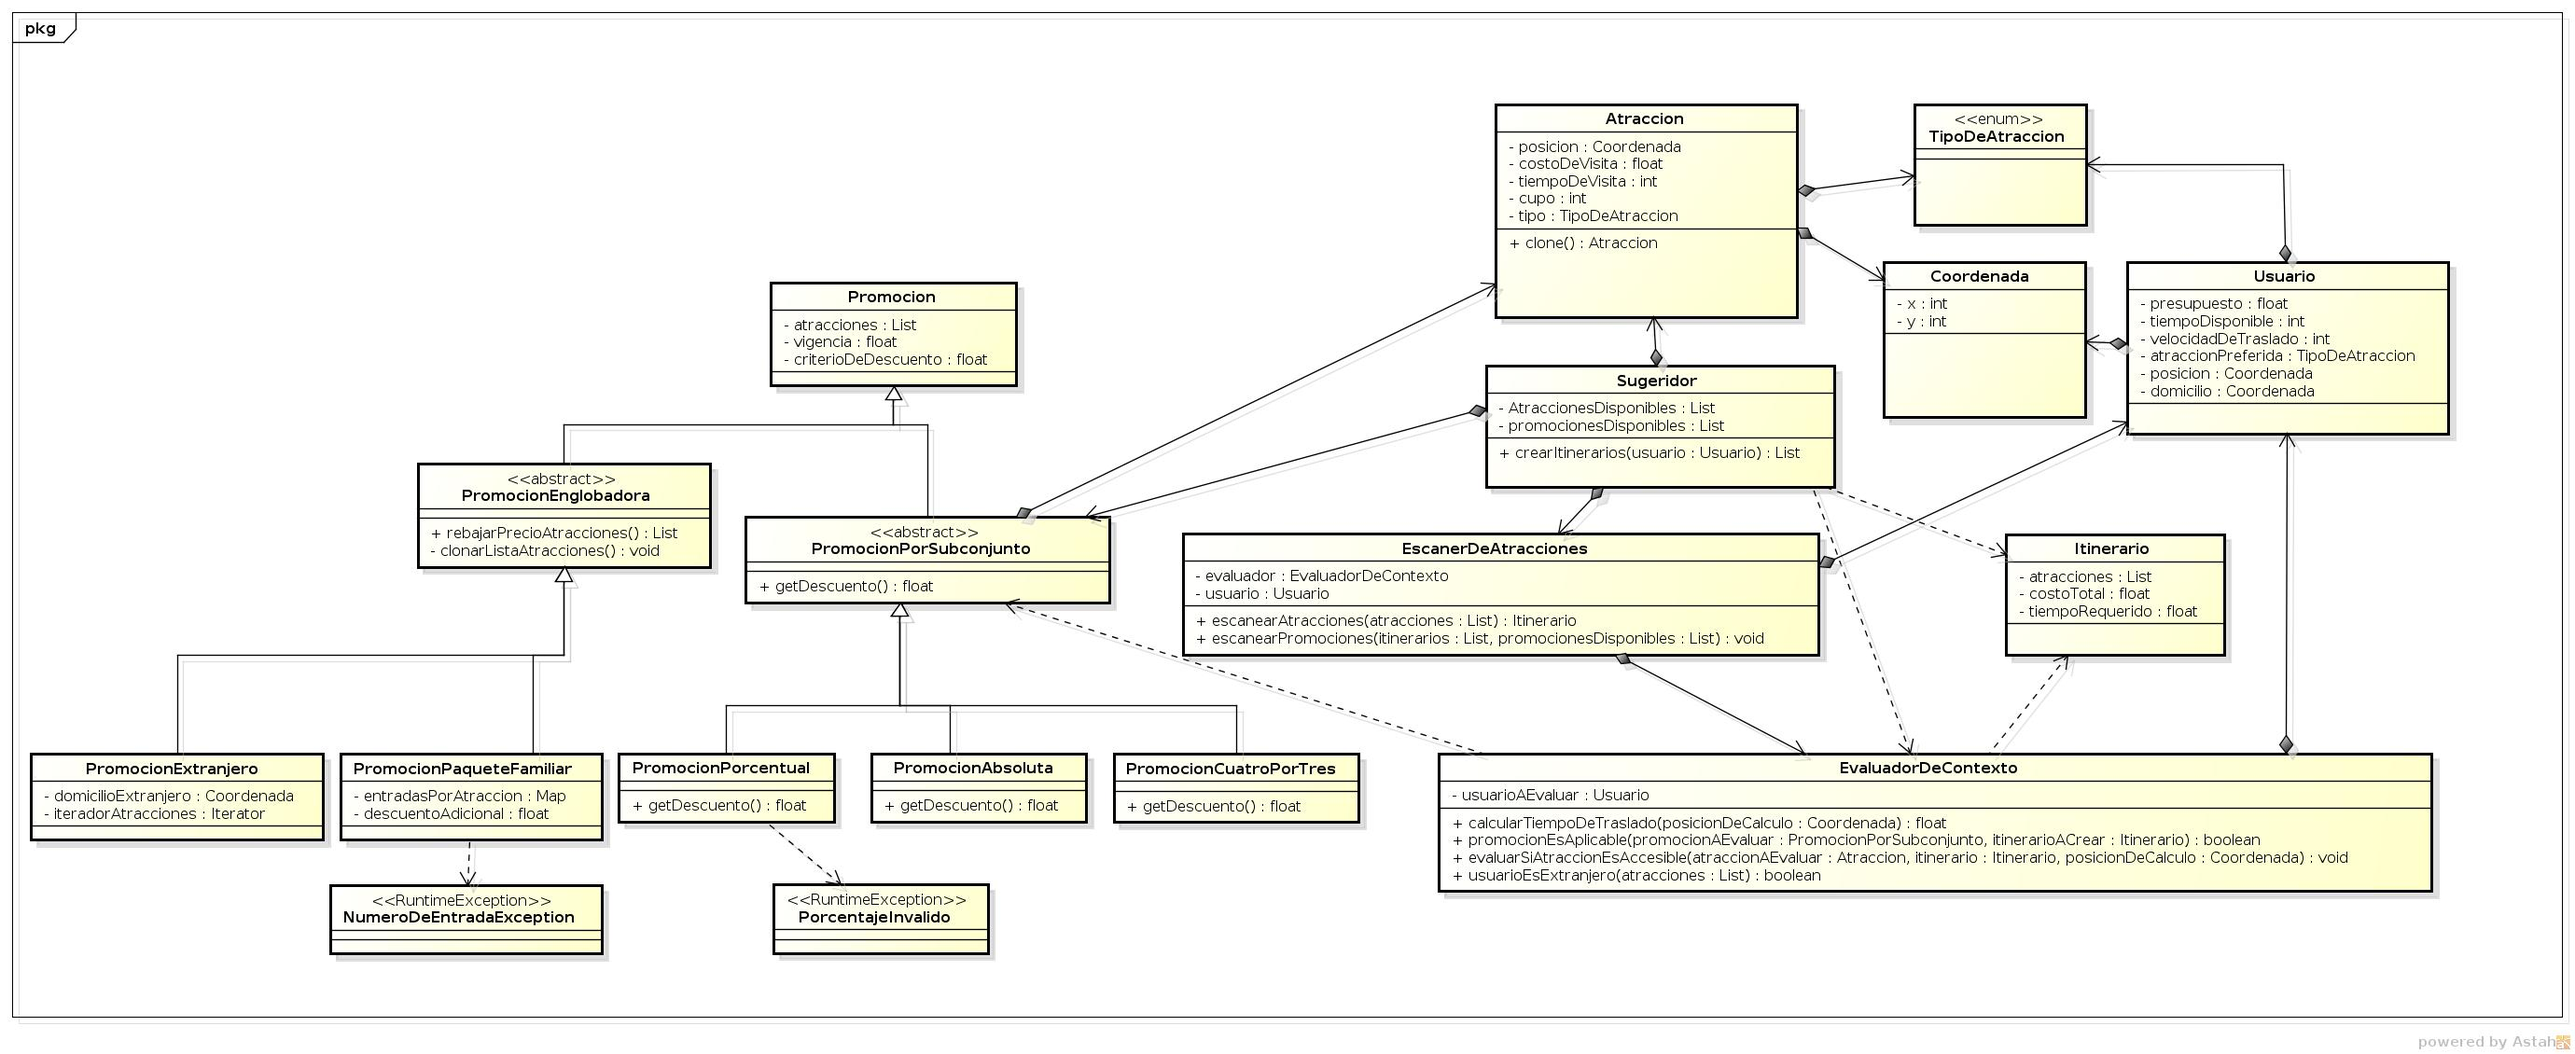
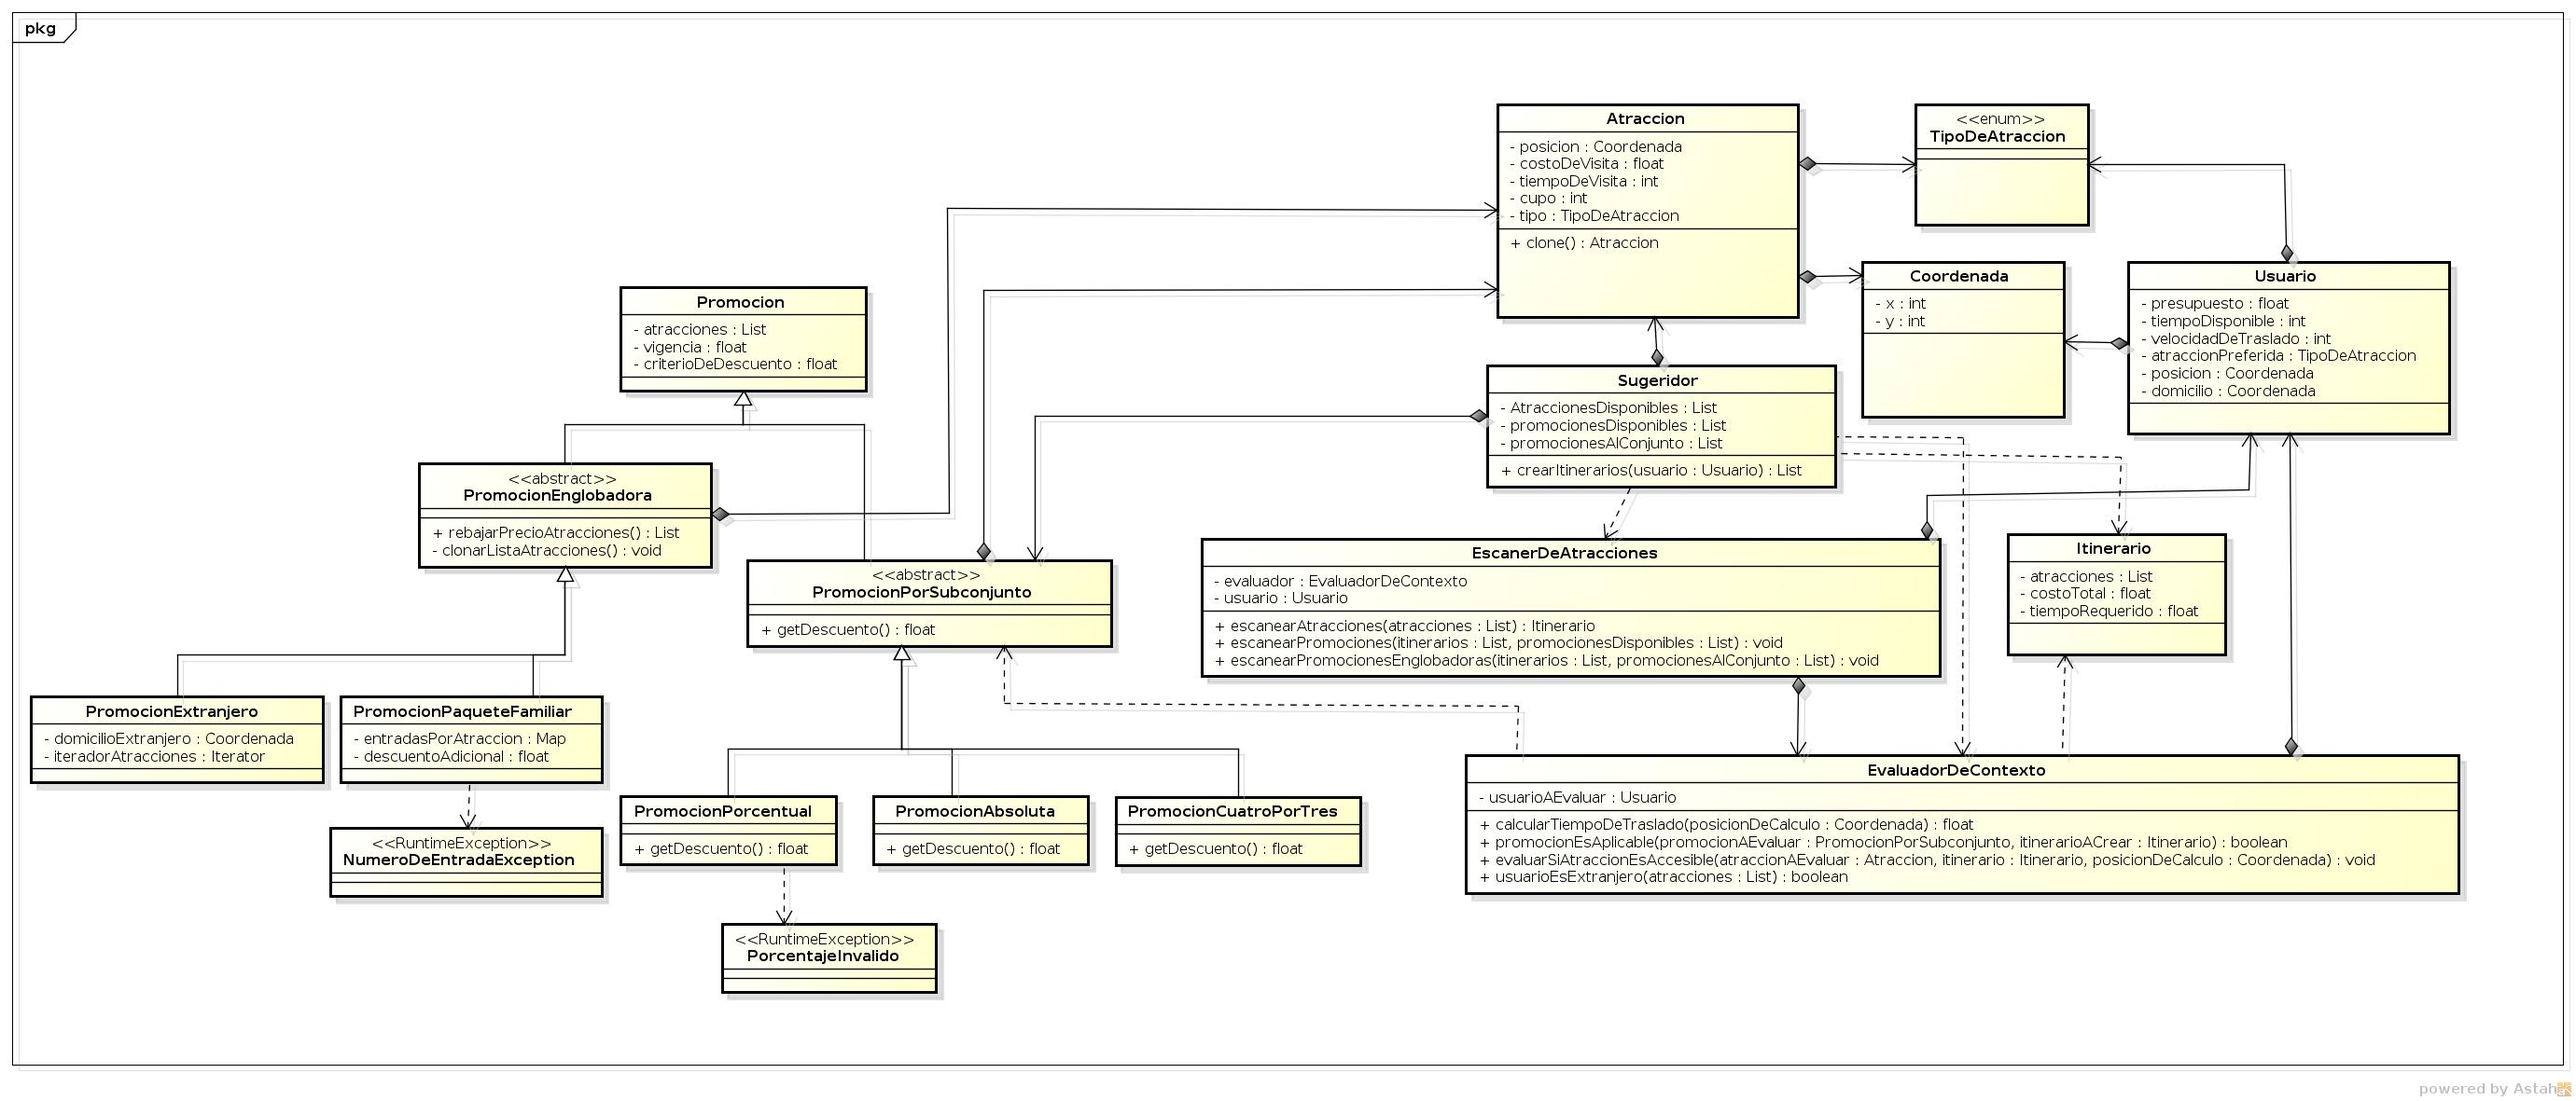
test verde para aplicar promocion extranjero

diff --git a/TP1/test/tp1/TP1Test.java b/TP1/test/tp1/TP1Test.java
@@ -2,13 +2,17 @@ package tp1;
 
 import java.util.LinkedList;
 import java.util.List;
+
 import org.junit.Assert;
 import org.junit.Before;
 import org.junit.Test;
+
 import trabajo1.parque.Atraccion;
 import trabajo1.parque.Coordenada;
 import trabajo1.parque.TipoDeAtraccion;
 import trabajo1.parque.Usuario;
+import trabajo1.parque.promociones.PromocionEnglobadora;
+import trabajo1.parque.promociones.PromocionExtranjero;
 import trabajo1.parque.promociones.PromocionPorSubconjunto;
 import trabajo1.principal.Itinerario;
 import trabajo1.principal.Sugeridor;
@@ -60,9 +64,6 @@ public class TP1Test {
 				.getAtracciones());
 	}
 
-	
-	
-	
 	@Test
 	public void devolverItinerarioConAtraccionesMasAccesiblesPorPresupuesto () {
 
@@ -225,5 +226,31 @@ public class TP1Test {
 				.get(0).getAtracciones());
 
 		Assert.assertFalse(itinerarios.contains( itinerarioInaccesible ));	
+	}
+	
+	
+	@Test
+	public void generarItinerarioConPromocionExtranjero(){
+
+		this.usuario.getDomicilio().setX(-4000);
+		this.usuario.setPresupuesto(4000);
+		this.usuario.setTiempoDiponible(100);
+		this.usuario.setVelocidadDeTraslado(100);
+		
+		List<PromocionEnglobadora> promocionesAlConjunto = new LinkedList<PromocionEnglobadora>();
+		promocionesAlConjunto.add(new PromocionExtranjero(1, this.usuario));
+		
+		Sugeridor sugeridor = new Sugeridor(this.atracciones, this.promociones,
+				promocionesAlConjunto);
+		
+		List<Atraccion> atraccionesItinerario = new LinkedList<Atraccion>();
+		atraccionesItinerario.add(this.atracciones.get(0));
+		atraccionesItinerario.add(this.atracciones.get(1));
+		atraccionesItinerario.add(this.atracciones.get(4));
+		
+		List<Itinerario> itinerarios = sugeridor.crearItinerarios(this.usuario);
+		
+		Assert.assertEquals(atraccionesItinerario, itinerarios.get(0).getAtracciones());
+		Assert.assertEquals(500, itinerarios.get(0).getCostoTotal(), 1);
 	}
 }

diff --git a/TP1/src/trabajo1/principal/Sugeridor.java b/TP1/src/trabajo1/principal/Sugeridor.java
@@ -6,33 +6,50 @@ import java.util.List;
 import trabajo1.calculo.EscanerDeAtracciones;
 import trabajo1.parque.Atraccion;
 import trabajo1.parque.Usuario;
+import trabajo1.parque.promociones.PromocionEnglobadora;
 import trabajo1.parque.promociones.PromocionPorSubconjunto;
 
 public class Sugeridor {
 
 	private static List<Atraccion> atracciones;
 	private List<PromocionPorSubconjunto> promocionesDisponibles;
+	private List <PromocionEnglobadora> promocionesAlConjunto;
 	
+	
+	public Sugeridor(List<Atraccion> atraccionesDelParque,
+			List<PromocionPorSubconjunto> promociones,
+			List<PromocionEnglobadora> promocionesAlConjunto) {
+
+		atracciones = atraccionesDelParque;
+		this.promocionesDisponibles = promociones;
+		this.promocionesAlConjunto = promocionesAlConjunto;
+	}
 	
 	public Sugeridor(List<Atraccion> atraccionesDelParque, List<PromocionPorSubconjunto> promociones) {
 		atracciones = atraccionesDelParque;
 		this.promocionesDisponibles = promociones;
+		this.promocionesAlConjunto = new LinkedList <PromocionEnglobadora>();
 	}
 	
 	public Sugeridor(List<Atraccion> atraccionesDelParque) {
 		atracciones = atraccionesDelParque;
 		this.promocionesDisponibles = new LinkedList <PromocionPorSubconjunto>();
+		this.promocionesAlConjunto = new LinkedList <PromocionEnglobadora>();
 	}
+	
 	
 	public static List <Atraccion> getAtracciones(){
 		return atracciones;
 	}
 	
+	
 	public List<Itinerario> crearItinerarios(Usuario usuario) {
 
 		List<Itinerario> itinerarios = new LinkedList<Itinerario>();
 		EscanerDeAtracciones escaner = new EscanerDeAtracciones (usuario);
-		
+	
+		escaner.escanearPromocionesEnglobadoras(itinerarios,
+				this.promocionesAlConjunto);
 		escaner.escanearPromociones(itinerarios, this.promocionesDisponibles);
 		Itinerario itinerario = escaner.escanearAtracciones(atracciones);
 		itinerarios.add(itinerario);

diff --git a/TP1/src/trabajo1/calculo/EscanerDeAtracciones.java b/TP1/src/trabajo1/calculo/EscanerDeAtracciones.java
@@ -6,6 +6,7 @@ import java.util.List;
 import trabajo1.parque.Atraccion;
 import trabajo1.parque.Coordenada;
 import trabajo1.parque.Usuario;
+import trabajo1.parque.promociones.PromocionEnglobadora;
 import trabajo1.parque.promociones.PromocionPorSubconjunto;
 import trabajo1.principal.Itinerario;
 
@@ -49,6 +50,29 @@ public class EscanerDeAtracciones {
 			if (this.evaluador.promocionEsAplicable(promocionAEvaluar, itinerarioACrear)) {
 				itinerarios.add( itinerarioACrear );
 			}	
+		}
+	}
+
+	/**
+	 * agrega un itinerario por cada promocion englobadora, 
+	 * si aplica la promocion
+	 * @param itinerarios
+	 * @param promocionesAlConjunto
+	 */
+	public void escanearPromocionesEnglobadoras(List<Itinerario> itinerarios,
+			List<PromocionEnglobadora> promocionesAlConjunto) {
+		
+		Iterator <PromocionEnglobadora> iterador = promocionesAlConjunto.iterator();
+		
+		while ( iterador.hasNext() ){
+			
+			List<Atraccion> atraccionesRebajadas = iterador.next()
+					.rebajarPrecioAtracciones();
+			
+			Itinerario itinerario = this
+					.escanearAtracciones(atraccionesRebajadas);
+			
+			itinerarios.add(itinerario);
 		}
 	}
 }

diff --git a/TP1/src/trabajo1/parque/promociones/Promocion.java b/TP1/src/trabajo1/parque/promociones/Promocion.java
@@ -4,7 +4,7 @@ import java.util.List;
 
 import trabajo1.parque.Atraccion;
 
-public class Promocion {
+public abstract class Promocion {
 
 	protected List<Atraccion> atracciones;
 	protected float vigencia;
